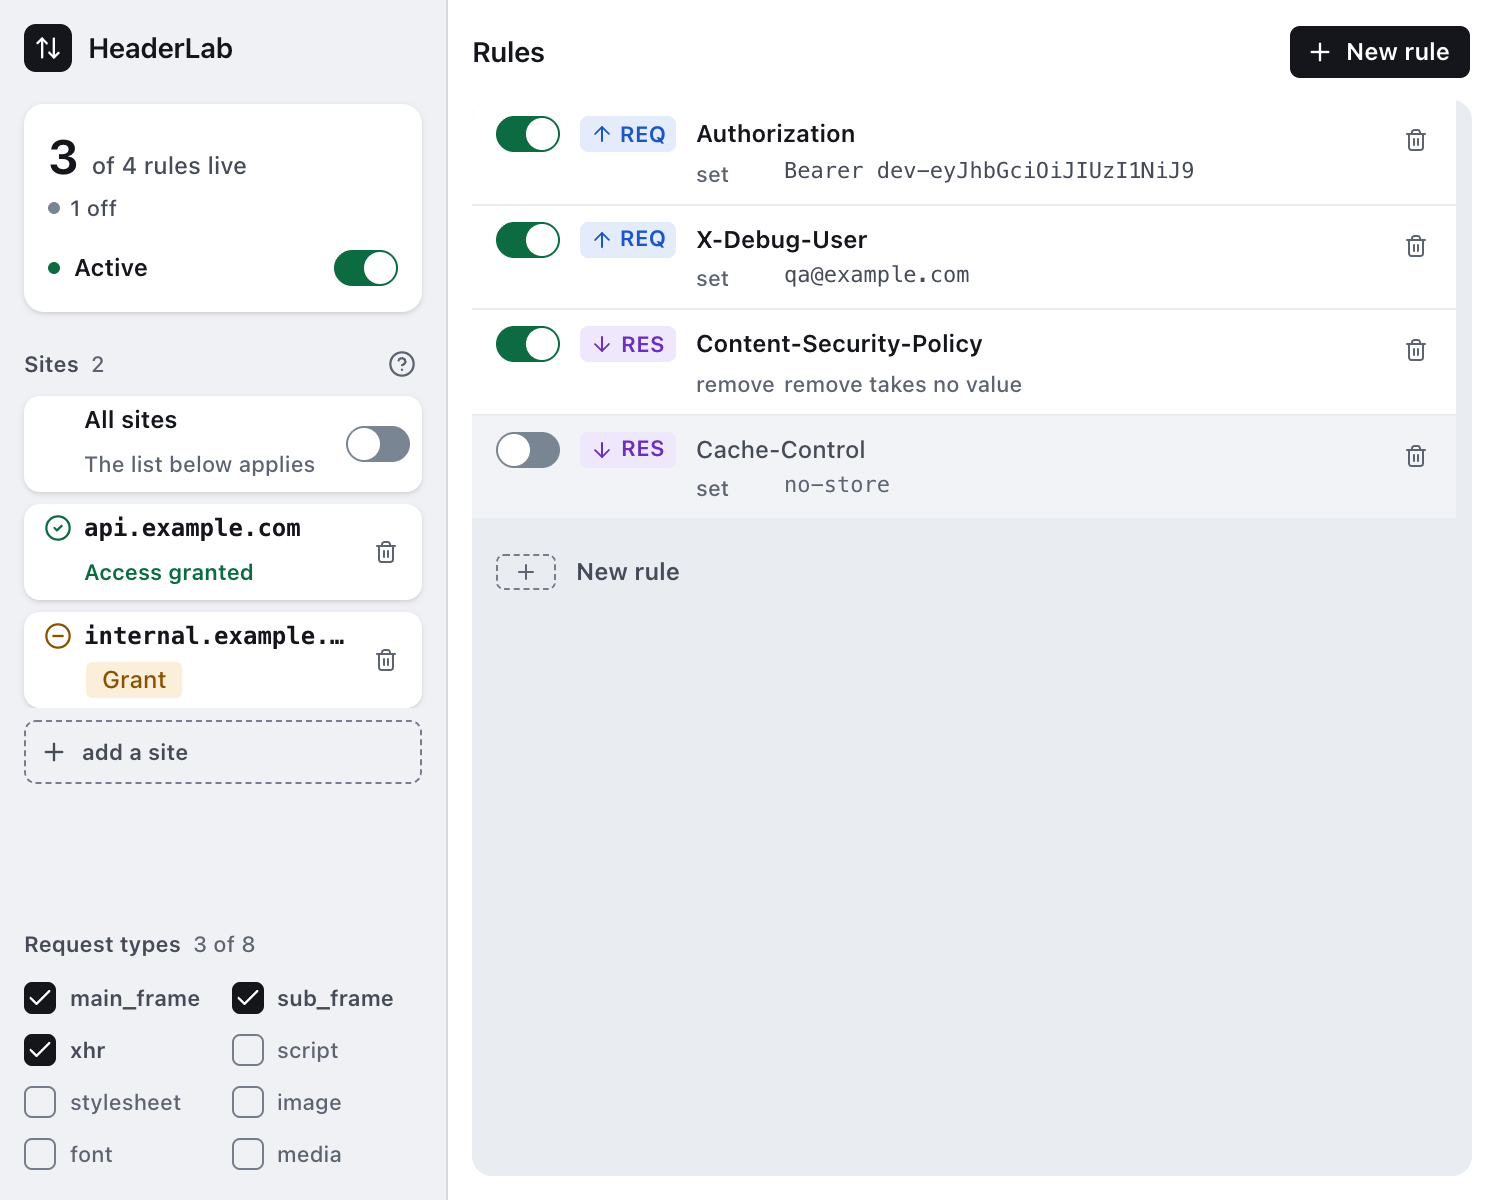
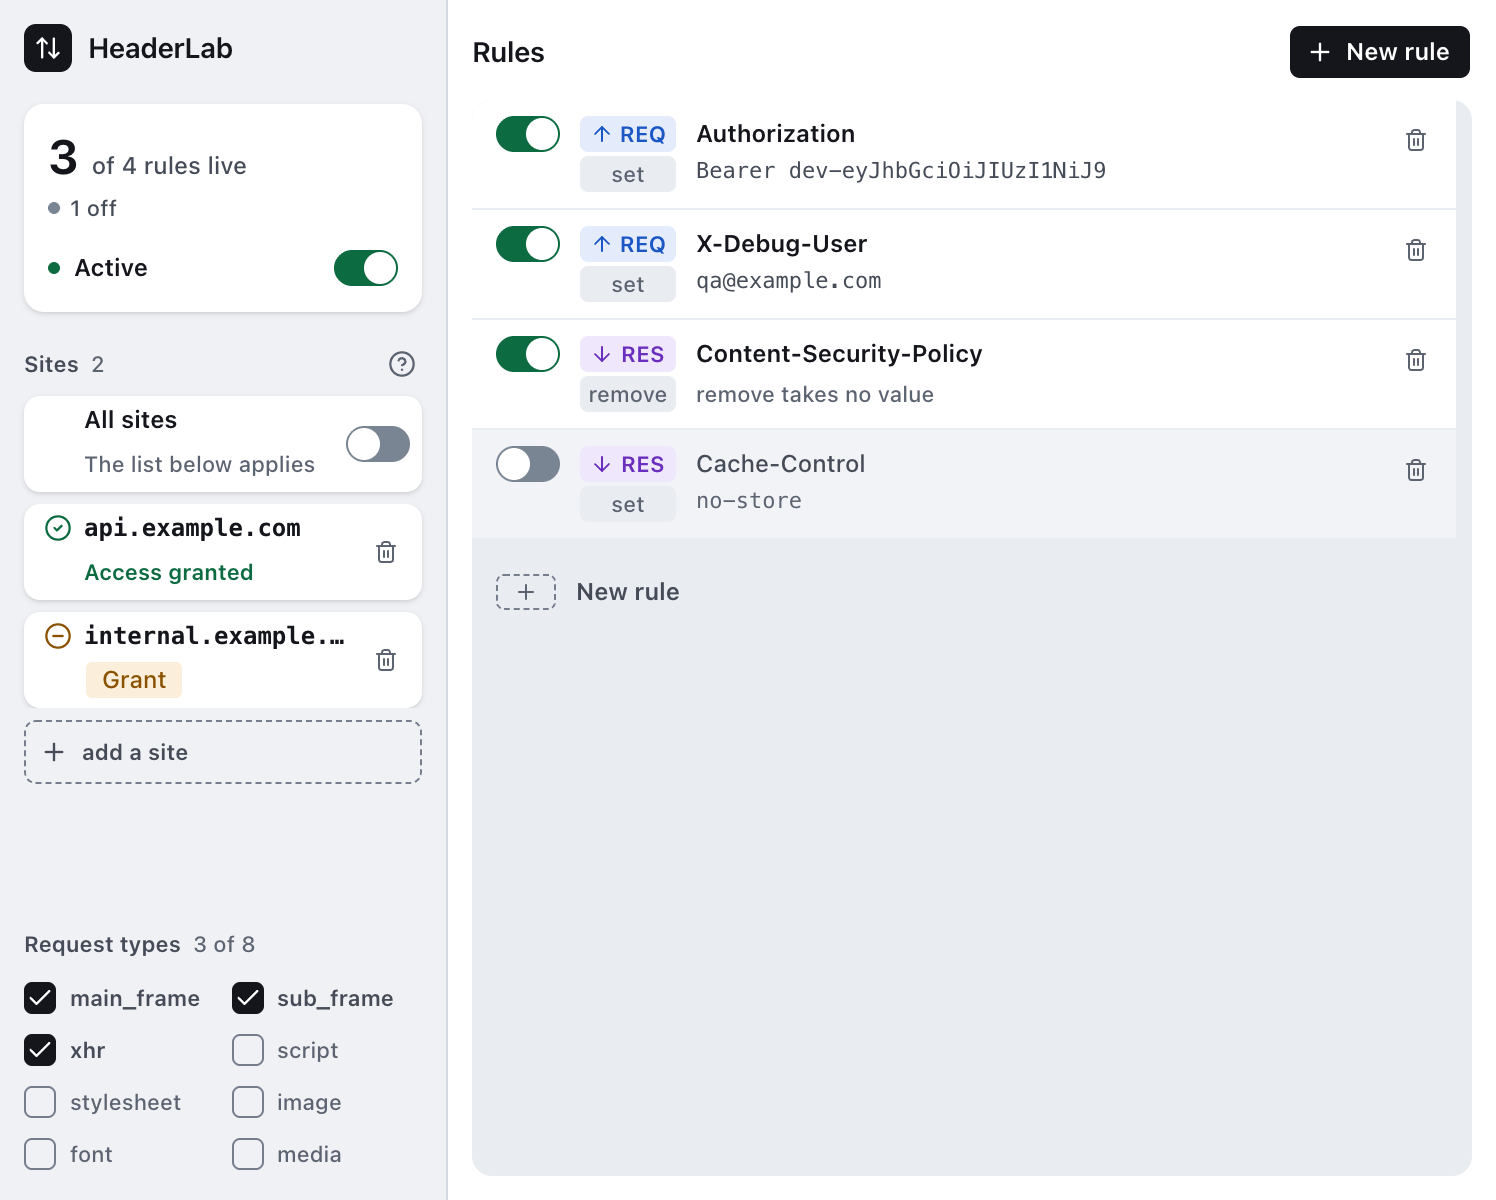
refactor: operation 을 방향 배지 아래로 옮긴다
시안 넷을 1:1 로 렌더해 오너에게 보였고, B — 배지 아래 칩을 골랐다. 추가
지시: 칩 높이를 REQ/RES 배지와 같게(18px). 거터가 이제 "이 규칙이
무엇을 하는가"(방향 + 동작)를 두 줄로 말하고, 오른쪽 열은 "무엇에
대해"(이름 + 값)만 갖는다 — 그리고 값이 그 열의 전체 너비를 쓰게 된다.
실측: 값 폭이 294px → 338px, 정확히 옛 op 버튼(44px)만큼 늘었다.

행 높이는 짧은 값에서 51.5px → 54px 로 늘었다(브리프가 예측한 "약
54px" 와 일치) — 거터가 18+2+18=38px 인데 오른쪽 열은 18+2+15≈35px 라
items-start 가 더 큰 쪽을 따른다. 긴 값(캡 있음) 행은 132.5px 로
그대로다. 감출 게 아니라 적어야 할 대가라 리포트에 남긴다.

독블록의 두 문장이 이 변경으로 거짓이 됐다 — "박스가 아니라 타이포그래피인
operation"과 "line 2 는 operation 과 값이 함께". 새 문장은 왜 이 배치인지
적는다: 거터는 동작을, 오른쪽 열은 대상을 말한다.

탭 순서가 바뀐다: Switch→Badge→이름→op→값→삭제 에서
Switch→Badge→op→이름→값→삭제 로. "이름이 값보다 먼저, 삭제가 마지막"
불변식은 그대로고, op 가 이름 앞으로 온 것은 거터의 컨트롤이 먼저 오고
그 다음 내용이 온다는 새 읽기 순서와 일치한다. tabIndex 로 우회하지
않았다 — DOM 순서와 다른 탭 순서는 접근성 회귀다. RuleCard.test.tsx 세
건을 새 순서로 고쳤다.

새 TEXT_PAIRS 항목 하나: 칩도 배지처럼 라벨이 식별하는 채워진 컨트롤이라
SHAPE_PAIRS 가 아니라 TEXT_PAIRS 로 가드한다(REQ/RES 배지와 같은 근거).
--muted-foreground on --tray: 라이트 5.098, 다크 6.342, 둘 다 4.5 위.

과밀 e2e 가드의 panel 카운트(12)는 그대로다 — op 칩은 아이콘이 없어
여전히 잎 노드라 옮겨도 같은 방식으로 세인다. npm run test:e2e 7 passed.

Claude-Session: https://claude.ai/code/session_01AoJqsjMCtVNteQQZDrLcrG

diff --git a/components/RuleCard.tsx b/components/RuleCard.tsx
@@ -34,12 +34,17 @@ export interface RuleCardProps {
  * This is where "one line, four button languages" lived: direction was a
  * pill, `set`/`remove` was a bordered box, delete was a bare `×`, and the
  * switch was a fourth shape again. Now there is one family — a real Switch,
- * a direction Badge carrying an arrow, an operation that is typography
- * rather than a box, and a ghost icon Button for delete.
+ * a direction Badge carrying an arrow stacked above an operation chip cut
+ * from the exact same cloth (same size, same radius, same fill logic, the
+ * badge's sibling rather than a fourth shape of its own), and a ghost icon
+ * Button for delete.
  *
- * Two lines, but not the split the grid before this used: line 1 is the
- * header name alone, line 2 is the operation and its value together. Name
- * is sans, value is monospace — provenance, not rank, decides the typeface
+ * The gutter reads top-to-bottom as *what this rule does* — direction, then
+ * operation, two chips in one column — and the right-hand column reads as
+ * *what it is about* — name, then value, the value now alone on its own
+ * line and free to use the column's full width (owner decision: variant B
+ * of four 1:1 renders, chip height pinned to the badge's 18px). Name is
+ * sans, value is monospace — provenance, not rank, decides the typeface
  * (docs/design/2026-08-07-popup-tight-instrument.html). A `remove` rule has
  * no value, and says so in the place a value would be rather than rendering
  * an empty field.
@@ -125,19 +130,49 @@ export function RuleCard({ rule, diagnostics, onPatch, onDelete, autoFocus }: Ru
           className="data-checked:bg-live [&_[data-slot=switch-thumb]]:dark:bg-white"
         />
 
-        <Badge
-          asChild
-          className={`h-[18px] w-12 shrink-0 justify-center gap-[3px] rounded-[4px] border-0 px-0 py-0 text-[11px] font-semibold tracking-[0.01em] ${TARGET_TONE[rule.target]}`}
-        >
-          <button
-            type="button"
-            aria-label={`Direction: ${rule.target}`}
-            onClick={() => onPatch({ target: TARGET_NEXT[rule.target] })}
+        {/* The gutter: direction over operation, one column, two chips cut
+            from the same cloth. Owner-picked variant B of four 1:1 renders,
+            with one addendum — the chip is pinned to the badge's own 18px
+            height rather than shaved down to save the 3px the taller gutter
+            costs. `gap-0.5` (2px) keeps them two controls, not one: flush
+            against each other would read as a single button that changes
+            both direction and operation on one click, and they change
+            different fields. */}
+        <div className="flex flex-col gap-0.5">
+          <Badge
+            asChild
+            className={`h-[18px] w-12 shrink-0 justify-center gap-[3px] rounded-[4px] border-0 px-0 py-0 text-[11px] font-semibold tracking-[0.01em] ${TARGET_TONE[rule.target]}`}
           >
-            <DirIcon aria-hidden="true" />
-            {TARGET_LABEL[rule.target]}
-          </button>
-        </Badge>
+            <button
+              type="button"
+              aria-label={`Direction: ${rule.target}`}
+              onClick={() => onPatch({ target: TARGET_NEXT[rule.target] })}
+            >
+              <DirIcon aria-hidden="true" />
+              {TARGET_LABEL[rule.target]}
+            </button>
+          </Badge>
+
+          {/* No icon (unlike the direction badge above it), so this stays a
+              true leaf node — text only, no child element — which is what
+              keeps it counted by the crowding e2e guard's leaf-based
+              clipping check the same way it was counted as the old op
+              button. Never repainted by `rule.operation` or by `data-off`,
+              same as the direction badge: the fill identifies "this is an
+              operation control," not which one. */}
+          <Badge
+            asChild
+            className="h-[18px] w-12 shrink-0 justify-center rounded-[4px] border-0 bg-tray px-0 py-0 text-[11px] font-medium text-muted-foreground"
+          >
+            <button
+              type="button"
+              aria-label={`Operation: ${rule.operation}`}
+              onClick={() => onPatch({ operation: OP_NEXT[rule.operation] })}
+            >
+              {rule.operation}
+            </button>
+          </Badge>
+        </div>
 
         <div className="min-w-0 flex-1">
           {/* display:block, not flex — a flex child truncates by hard-clipping
@@ -157,16 +192,10 @@ export function RuleCard({ rule, diagnostics, onPatch, onDelete, autoFocus }: Ru
             }}
           />
 
+          {/* Line 2 is the value alone now — operation moved into the
+              gutter above — so it takes the column's full width instead of
+              splitting it with a 44px op cycler. */}
           <div className="mt-0.5 flex min-w-0 items-start">
-            <button
-              type="button"
-              className="mt-px w-11 shrink-0 text-left text-[11px] leading-[14px] font-medium text-muted-foreground"
-              aria-label={`Operation: ${rule.operation}`}
-              onClick={() => onPatch({ operation: OP_NEXT[rule.operation] })}
-            >
-              {rule.operation}
-            </button>
-
             {removes ? (
               <span
                 className="mt-px min-w-0 flex-1 text-[11px] leading-[14px] font-medium text-muted-foreground"

diff --git a/tests/unit/RuleCard.test.tsx b/tests/unit/RuleCard.test.tsx
@@ -268,18 +268,20 @@ describe('RuleCard tab order', () => {
     return seq;
   }
 
-  it('goes name → operation → value, with delete last', async () => {
+  it('goes op → name → value, with delete last', async () => {
     // Typing a name and pressing Tab used to land on Delete, because the
     // button sat beside the name input in the DOM and tab order follows the
     // document. Name then value is the one sequence this card exists to
-    // support, and its destructive action belongs at the end.
+    // support, and its destructive action belongs at the end — both still
+    // true here.
     //
-    // Operation now sits between them, not before the name — line 1 is the
-    // name alone and line 2 is operation-and-value together
-    // (docs/design/2026-08-07-popup-tight-instrument.html), and tab order
-    // follows that same top-to-bottom, left-to-right shape. "Name then
-    // value" still holds; only where the operation cycler falls in between
-    // changed, and that is a structural move, not a regression.
+    // Operation moved again (Task 11): it no longer sits between name and
+    // value on line 2 — it stacks under the direction Badge in the gutter,
+    // so it comes right after Direction and before Header name in the DOM.
+    // That is a deliberate reading order, not an incidental one: the
+    // gutter's controls (what this rule does) come first, then its content
+    // (what it's about) — the same order a person's eye takes across the
+    // row, left to right.
     //
     // The whole sequence is asserted, not merely that each control is
     // reachable: a test checking only that the value field and the delete
@@ -298,8 +300,8 @@ describe('RuleCard tab order', () => {
     expect(await walk(6)).toEqual([
       'X-Test enabled',
       'Direction: request',
-      'Header name',
       'Operation: set',
+      'Header name',
       'Header value',
       'Delete rule',
     ]);
@@ -322,8 +324,8 @@ describe('RuleCard tab order', () => {
     expect(await walk(6)).toEqual([
       'Unnamed enabled',
       'Direction: request',
-      'Header name',
       'Operation: set',
+      'Header name',
       'Header value',
       'Delete rule',
     ]);
@@ -331,9 +333,9 @@ describe('RuleCard tab order', () => {
 
   it('skips the value on a remove rule, which has none to focus', async () => {
     // `remove` takes no value, so that slot is a span rather than a field and
-    // Tab goes straight from the operation cycler to delete. Asserted rather
-    // than left to chance, because it is the one row where "name then value"
-    // cannot hold and the reason must be visible here.
+    // Tab goes straight from the name to delete. Asserted rather than left to
+    // chance, because it is the one row where "name then value" cannot hold
+    // and the reason must be visible here.
     render(
       <RuleCard
         rule={rule({ operation: 'remove', value: '' })}
@@ -345,8 +347,8 @@ describe('RuleCard tab order', () => {
     expect(await walk(5)).toEqual([
       'X-Test enabled',
       'Direction: request',
-      'Header name',
       'Operation: remove',
+      'Header name',
       'Delete rule',
     ]);
   });

diff --git a/tests/unit/contrast.test.ts b/tests/unit/contrast.test.ts
@@ -179,10 +179,15 @@ const TEXT_PAIRS: ReadonlyArray<readonly [string, string, string]> = [
   // is what a reader has to find in order to check the claim.
   ['header name text — the name Input, line 1 of a rule row', '--foreground', '--background'],
   ['header value text — the value Input, line 2 of a rule row', '--foreground-2', '--background'],
+  // Task 11: the operation control moved off line 2 into the gutter, as a
+  // filled chip stacked under the direction Badge rather than borderless
+  // typography beside the value. `--tray`, not `--card`/`--background` — the
+  // chip's own fill never changes with the row's surface, same as the badge
+  // above it never repaints for `data-off`.
   [
-    'operation label, e.g. "set"/"remove" — the borderless op cycler on line 2',
+    "operation chip — set/append/remove, the direction badge's sibling",
     '--muted-foreground',
-    '--background',
+    '--tray',
   ],
   [
     'field placeholders — the name and value Inputs, on the row they sit in',
